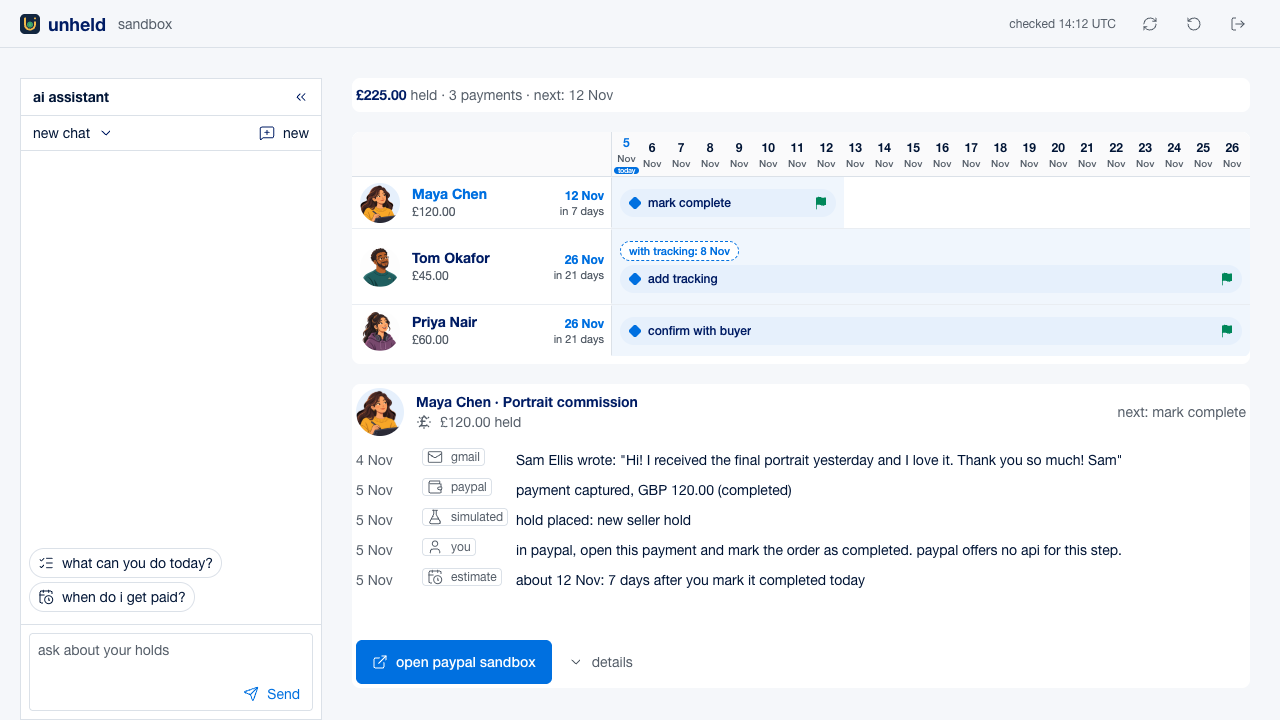
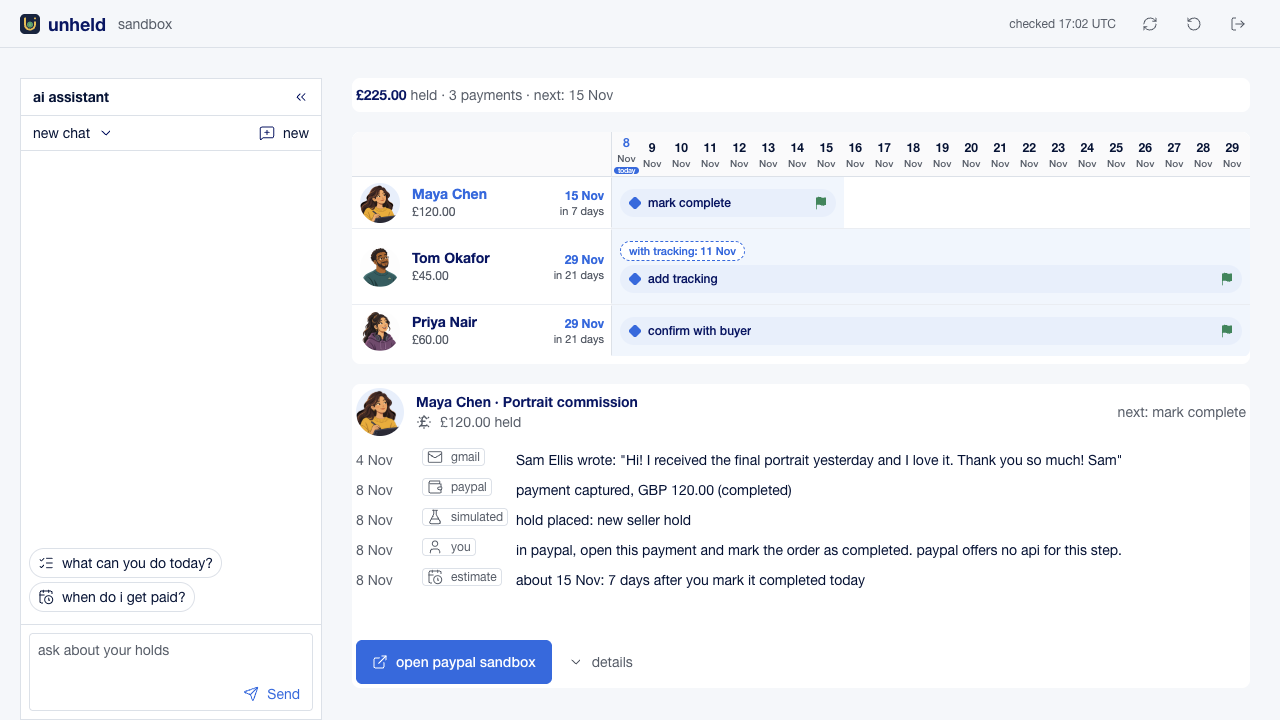
Update submission README and live calendar workbench screenshot

diff --git a/README.md b/README.md
@@ -1,29 +1,34 @@
 <p align="center"><img src="docs/banner.png" alt="unheld" width="100%"></p>
 
-Unheld is a workbench for an independent creator whose PayPal payment is held. It reads the
-creator's held payments into one grid, shows the evidence for the selected payment next to it
-(the PayPal order and tracker, and the creator's own Gmail thread with the buyer where available),
-and estimates when the money arrives against PayPal's release rules. An AI assistant can explain a
-hold, add a shipment tracker, or draft (never send) a buyer reply.
+unheld helps independent creators answer "when does the creator get paid?" It shows held PayPal
+payments in a calendar-gantt view, with the selected payment's evidence timeline below. An assistant
+can explain an estimate, add tracking to a sandbox order, or save an unsent Gmail draft.
+
+The idea came from 3,655 public posts about money problems, including 268 relevant held-payment
+posts. The demo's bars show temporary hold only (111), limited or banned (78), support unreachable
+(38), and needs it for rent, food or bills (21). Only 23 posts report a fix; others may not have followed up.
 
 ![Unheld workbench](docs/screenshot.png)
 
 ## Demo
 
-- Hosted: `<TO FILL: Render URL>`. The access code is given in the Devpost testing instructions.
-- Video: `<TO FILL: YouTube URL>`
+- Hosted at <https://unheld.onrender.com>. The access code is in the Devpost testing instructions.
+- Video `<TO FILL: YouTube URL>`
 
 ## How it works
 
-- One AG Studio grid of held payments, each with a next step and an estimated release date.
-- An evidence widget next to the grid, every line labelled by source: PayPal, Gmail, simulated hold, or policy estimate.
-- An AI assistant with three tools: `get_hold_evidence`, `add_tracking`, and `draft_buyer_reply`, which never sends.
-- Release dates follow PayPal's published hold-release rules: about 1 day after delivery, 7 days after a service is marked complete, or within 21 days.
-- Holds are simulated, because the PayPal sandbox never withholds money; the interface marks them as such.
+- Calendar-gantt rows show creator avatars, amounts, paid-by estimates and hold bars. A dashed tracking bar previews a shorter wait; phones show a days-left list.
+- The evidence timeline below labels each fact `paypal`, `simulated`, `gmail`, `you`, or `estimate`.
+- The assistant uses `get_hold_evidence`, `add_tracking`, and `draft_buyer_reply`. Tracking writes to the sandbox order; Gmail drafts stay unsent until the creator chooses to send them.
+- The live app computes release estimates from today's date under three rules, about 1 day after confirmed delivery, 7 days after the creator marks a digital service complete, or 21 days at the latest.
+- The recorded demo gives Maya 13 Nov after her manual PayPal step, Tom about 9 Nov after tracking, and Priya 27 Nov at the latest. Priya still needs the buyer's reply.
+- Holds are simulated and labelled because the PayPal sandbox never withholds money. Dates are estimates.
 
 ## How it uses AG Studio
 
-I built a custom evidence widget, `app/studio/evidence-widget.tsx`, with source badges and a crossfade between payments. I fed our own Tailwind tokens into Studio's theme in `app/studio/theme.ts`. I wired three custom tools into Studio's built-in assistant in `app/studio/ai.ts`: `get_hold_evidence`, `add_tracking`, and `draft_buyer_reply`. The assistant answers "when do I get paid?" per payment from real PayPal and Gmail evidence.
+The calendar in `app/studio/gantt-widget.tsx` uses AG Grid as a custom AG Studio widget. The evidence
+widget adds source badges and a selection crossfade. Both use our Tailwind theme tokens, and the
+three tools in `app/studio/ai.ts` ground Studio's built-in assistant in PayPal sandbox and Gmail evidence.
 
 ## Run locally
 
